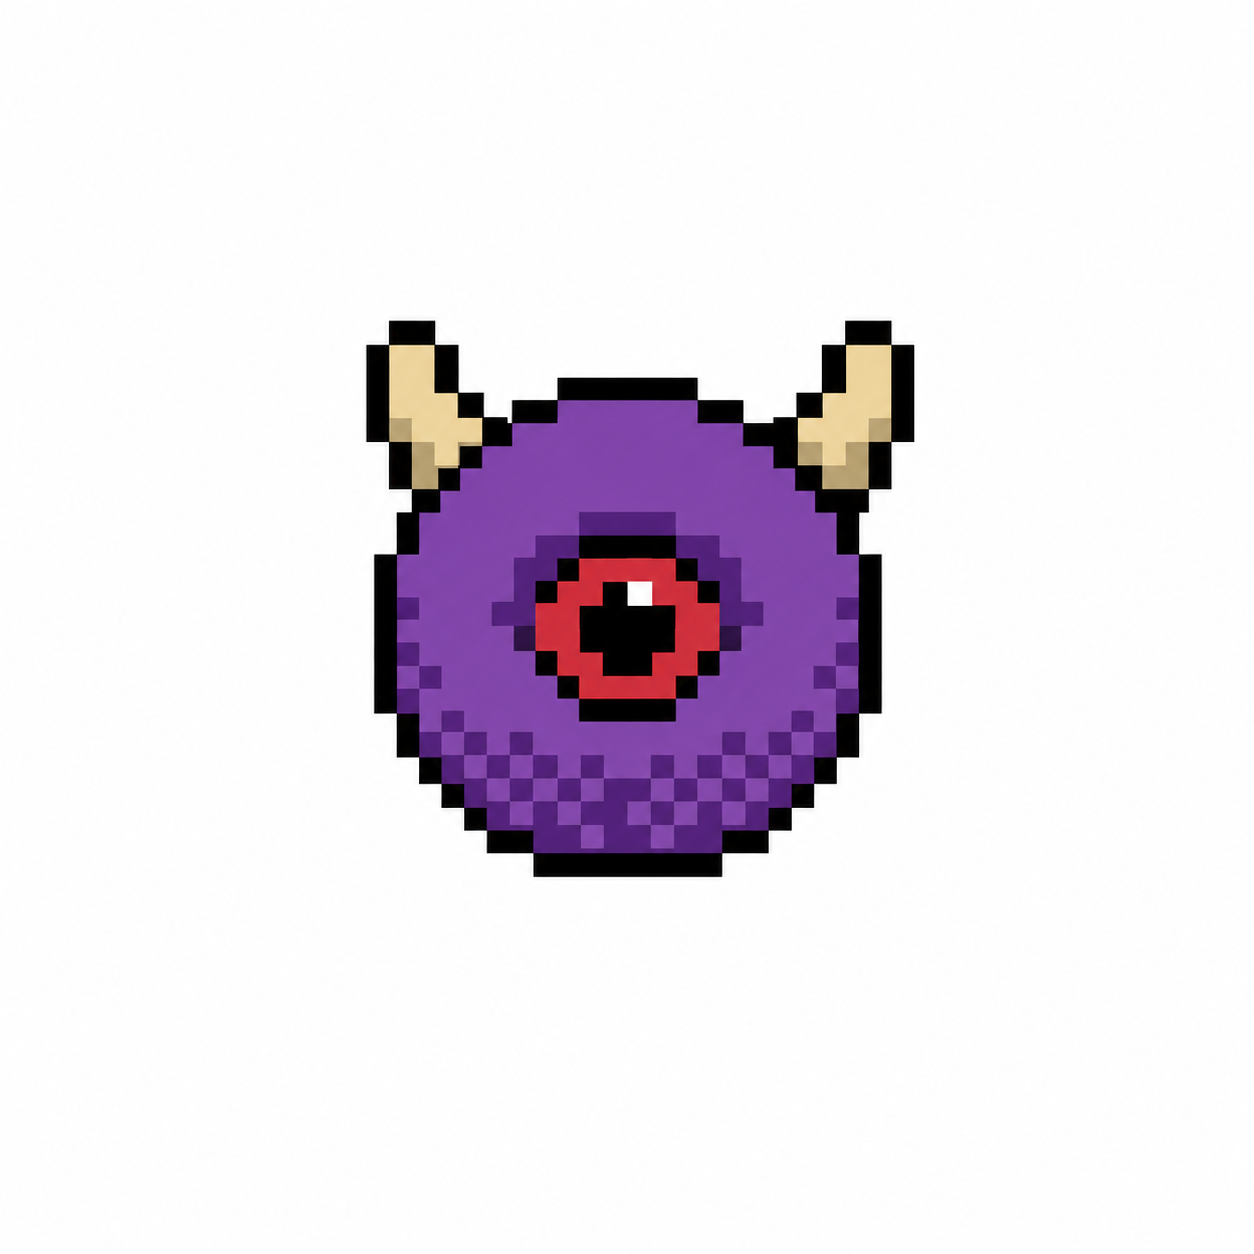
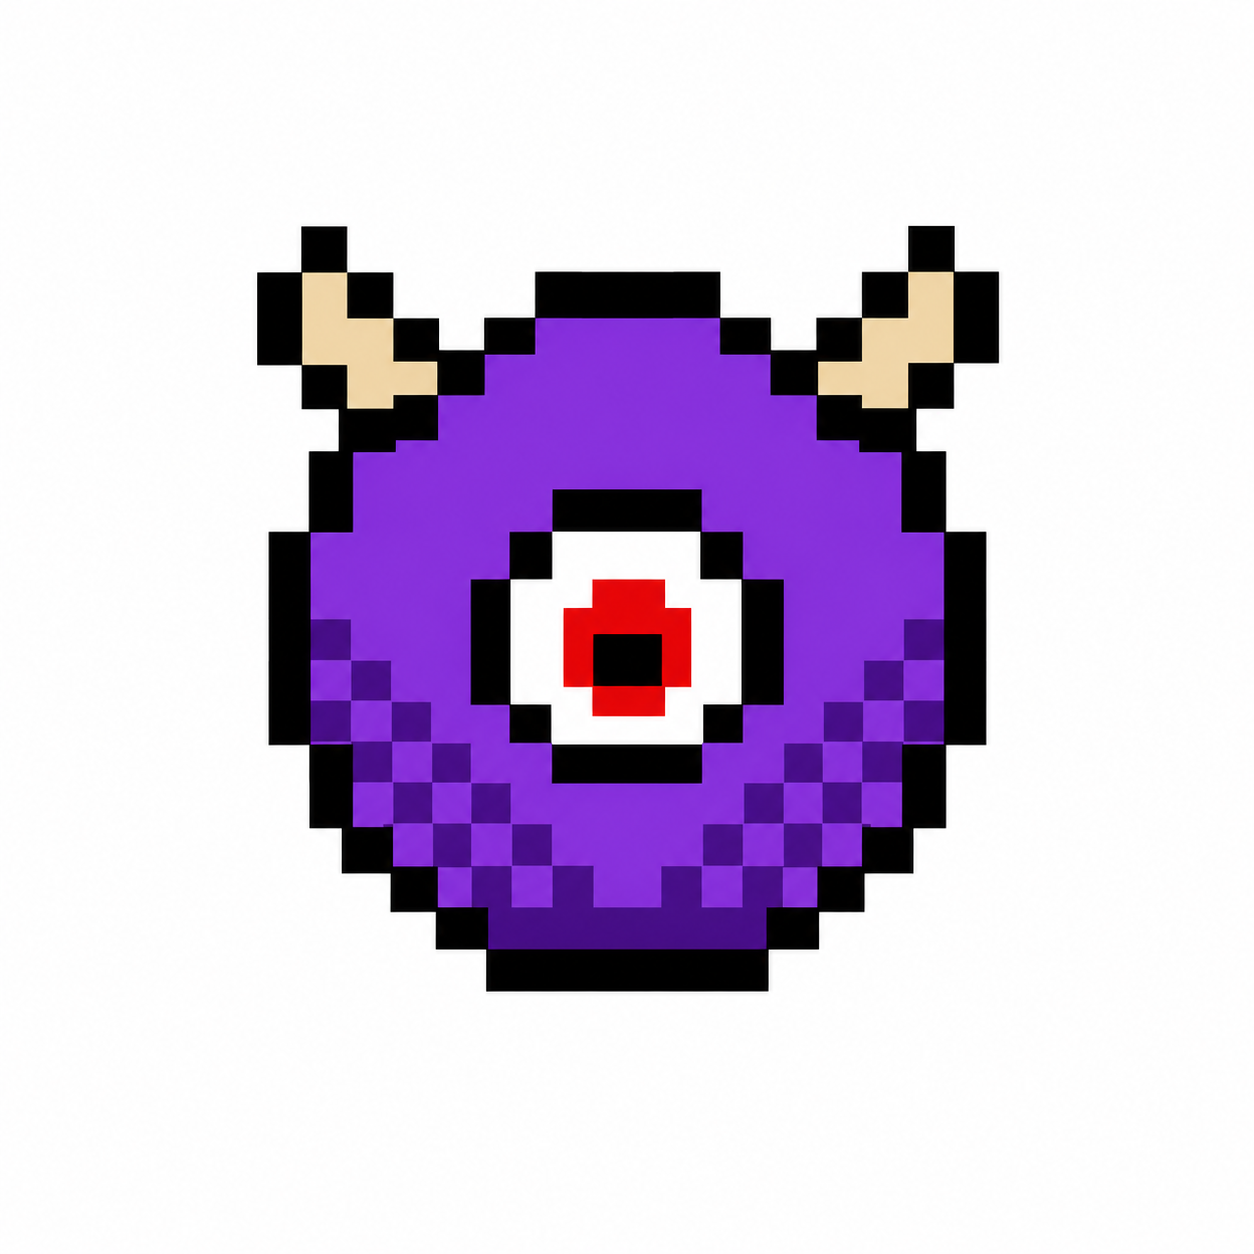
fix colors

Changed region(s): [[0.1866, 0.1555, 0.8086, 0.8086]]

diff --git a/pixelartmaker/palette.py b/pixelartmaker/palette.py
@@ -64,18 +64,53 @@ def _rgb_to_hex(r: int, g: int, b: int) -> str:
     return f"#{r:02X}{g:02X}{b:02X}"
 
 
-def best_n_from_palette(pixels_rgb: np.ndarray, master: "Palette", n: int) -> "Palette":
+def best_n_from_palette(
+    pixels_rgb: np.ndarray,
+    master: "Palette",
+    n: int,
+    min_distance: float = 30.0,
+) -> "Palette":
     """Return a new Palette with the n most-frequent master colors in the image.
 
     Each pixel is snapped to the nearest master palette entry (L2 RGB distance),
-    then the top-n by pixel count are selected. Used for NES palette construction.
+    then candidates are ranked by frequency. Colors too close to an already-selected
+    color (L2 < min_distance) are skipped in favor of more distinct ones. If not
+    enough distinct colors exist to fill n slots, near-duplicates are admitted as
+    a fallback so the count is always honored.
     """
     pixels = pixels_rgb.reshape(-1, 3).astype(np.float32)
     dists = np.sum((master._rgb[None, :, :] - pixels[:, None, :]) ** 2, axis=2)
     assignments = np.argmin(dists, axis=1)
     counts = np.bincount(assignments, minlength=len(master.names))
-    top_n_indices = np.argsort(counts)[-n:][::-1]
-    named = {master.names[i]: master.hex_of(i) for i in top_n_indices}
+
+    # Rank all entries by frequency, most frequent first
+    ranked = np.argsort(counts)[::-1]
+
+    selected: list[int] = []
+    deferred: list[int] = []  # too-close entries, admitted only if needed
+
+    for idx in ranked:
+        if counts[idx] == 0:
+            break
+        rgb = master._rgb[idx]
+        too_close = any(
+            float(np.sqrt(np.sum((rgb - master._rgb[s]) ** 2))) < min_distance
+            for s in selected
+        )
+        if too_close:
+            deferred.append(idx)
+        else:
+            selected.append(idx)
+        if len(selected) == n:
+            break
+
+    # Fill remaining slots from deferred (near-duplicates) if we came up short
+    for idx in deferred:
+        if len(selected) == n:
+            break
+        selected.append(idx)
+
+    named = {master.names[i]: master.hex_of(i) for i in selected}
     return Palette(named)
 
 